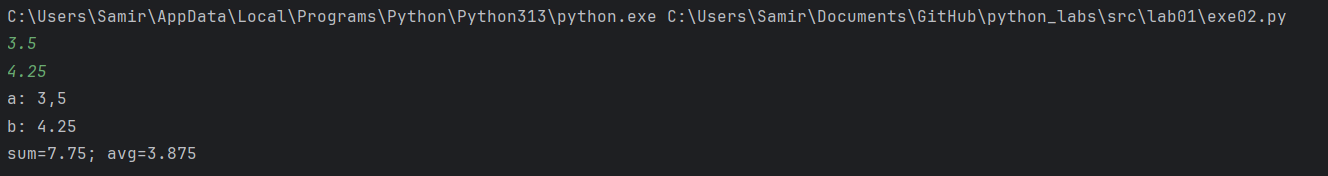
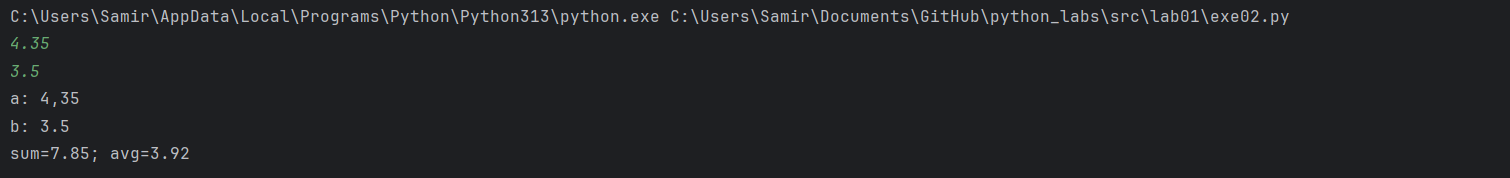
up

diff --git a/src/lab01/exe02.py b/src/lab01/exe02.py
@@ -2,4 +2,4 @@ a = input()
 b = float(input())
 print("a: " + a.replace('.', ','))
 print("b: " + str(b))
-print("sum=" + str((float(a)+b)) + ";" + " avg=" + str((float(a)+b)/2))
+print("sum=" + f"{(float(a)+b):.2f}" + ";" + " avg=" + f"{(float(a)+b)/2:.2f}")
